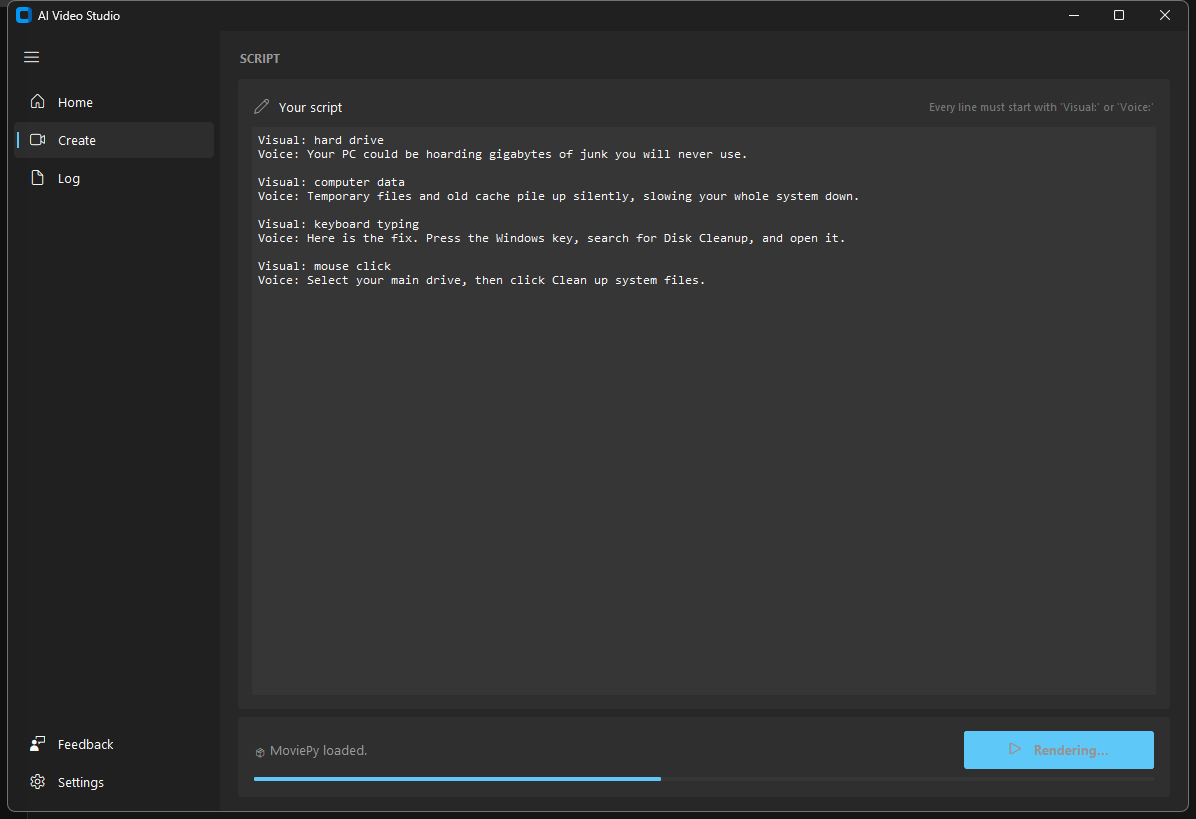
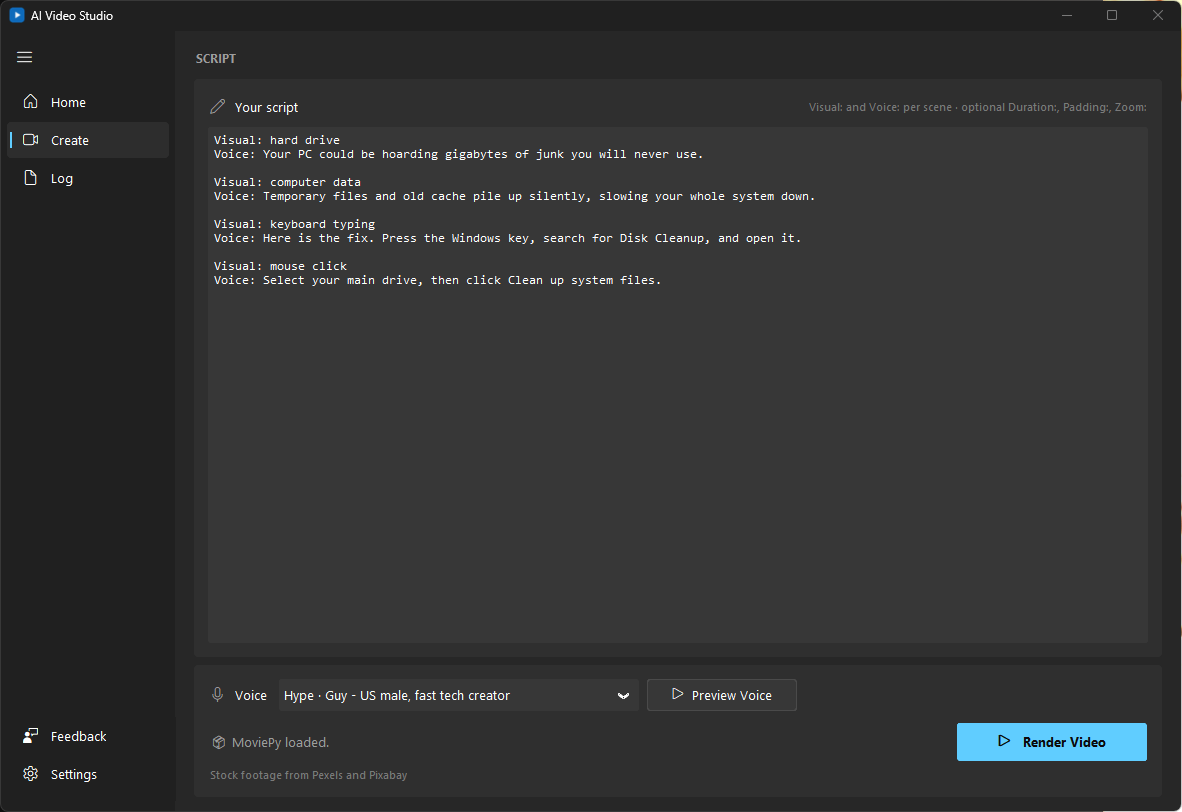
Release 3.1.1: version bump, fresh screenshots, README

diff --git a/src/ai_video_studio.py b/src/ai_video_studio.py
@@ -137,7 +137,7 @@ from vidgen.voice import generate_voiceover  # noqa: E402
 
 
 APP_NAME = "AI Video Studio"
-APP_VERSION = "3.1.0"
+APP_VERSION = "3.1.1"
 # Must match AppUserModelID in packaging/installer.iss, or a pinned taskbar
 # shortcut will not group with the running window.
 APP_MODEL_ID = "AIVideoStudio.Desktop.3"

diff --git a/README.md b/README.md
@@ -11,7 +11,7 @@ voiceover, and renders a 1080p or 720p MP4 in portrait or landscape.
 - **Automated Stock Footage:** Automatically fetches relevant video clips from Pexels API.
 - **Neural AI Voices:** Uses Microsoft Edge-TTS for high-quality, natural-sounding male and female voices.
 - **Smart Script Parser:** Automatically reads your script line-by-line using `Visual:` and `Voice:` tags.
-- **GUI Dashboard:** Windows 11 Fluent interface for API keys, voice selection, resolution and rendering status.
+- **Windows 11 Fluent interface:** Settings-app style segmented controls, smooth page transitions, dark and light themes with Mica, and live render progress.
 - **Portrait or landscape:** 9:16 for Shorts and TikTok, 16:9 for YouTube, at 1080p or 720p.
 - **End-to-End Automation:** Fetches, generates, matches duration, and stitches everything into a final `.mp4`.
 
@@ -37,7 +37,7 @@ You can confirm you have the real file by checking its hash against
 `SHA256SUMS.txt` on the release page:
 
 ```powershell
-Get-FileHash .\AIVideoStudio-3.1.0-setup.exe -Algorithm SHA256
+Get-FileHash .\AIVideoStudio-3.1.1-setup.exe -Algorithm SHA256
 ```
 
 ## First run
@@ -231,7 +231,7 @@ pip install -r requirements.txt -r requirements-build.txt
 python -m pytest
 python packaging/make_icon.py
 pyinstaller --noconfirm --clean packaging/ai_video_studio.spec
-"C:\Program Files (x86)\Inno Setup 6\ISCC.exe" /DMyAppVersion=3.1.0 packaging\installer.iss
+"C:\Program Files (x86)\Inno Setup 6\ISCC.exe" /DMyAppVersion=3.1.1 packaging\installer.iss
 ```
 
 Releases are built automatically by GitHub Actions when a `v*` tag is pushed.
